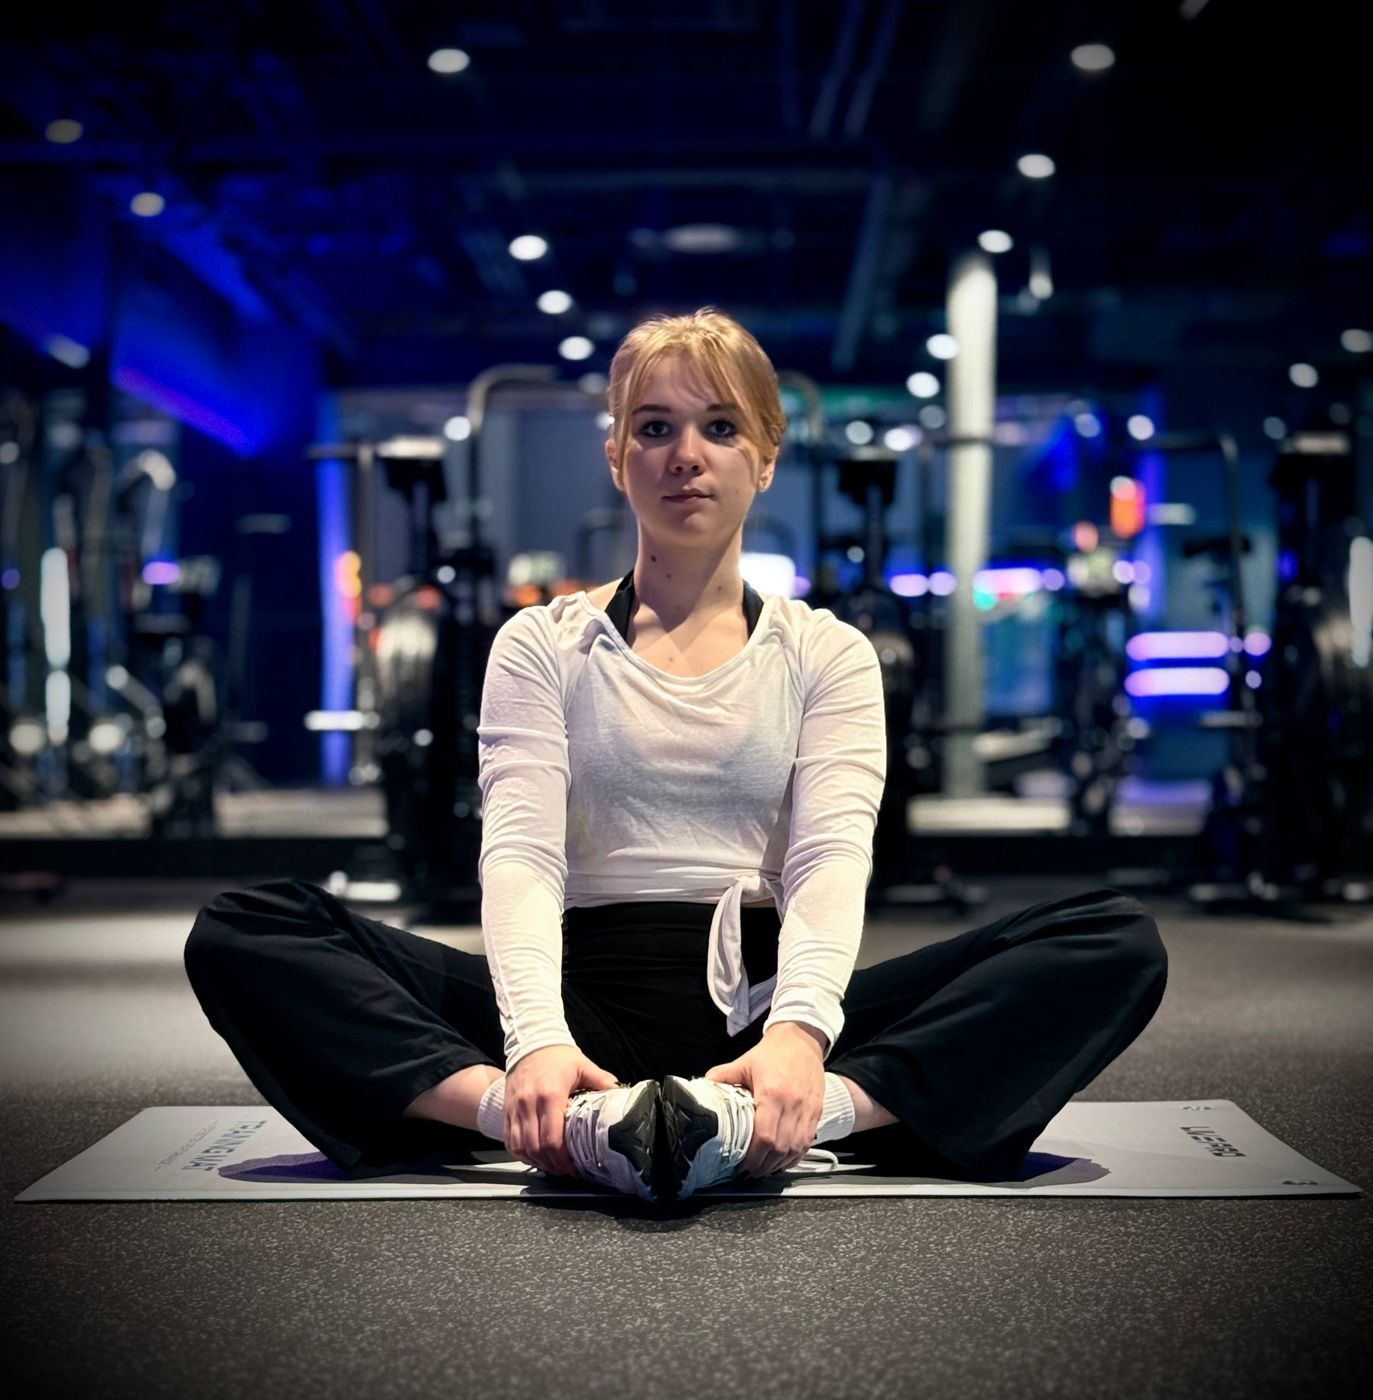
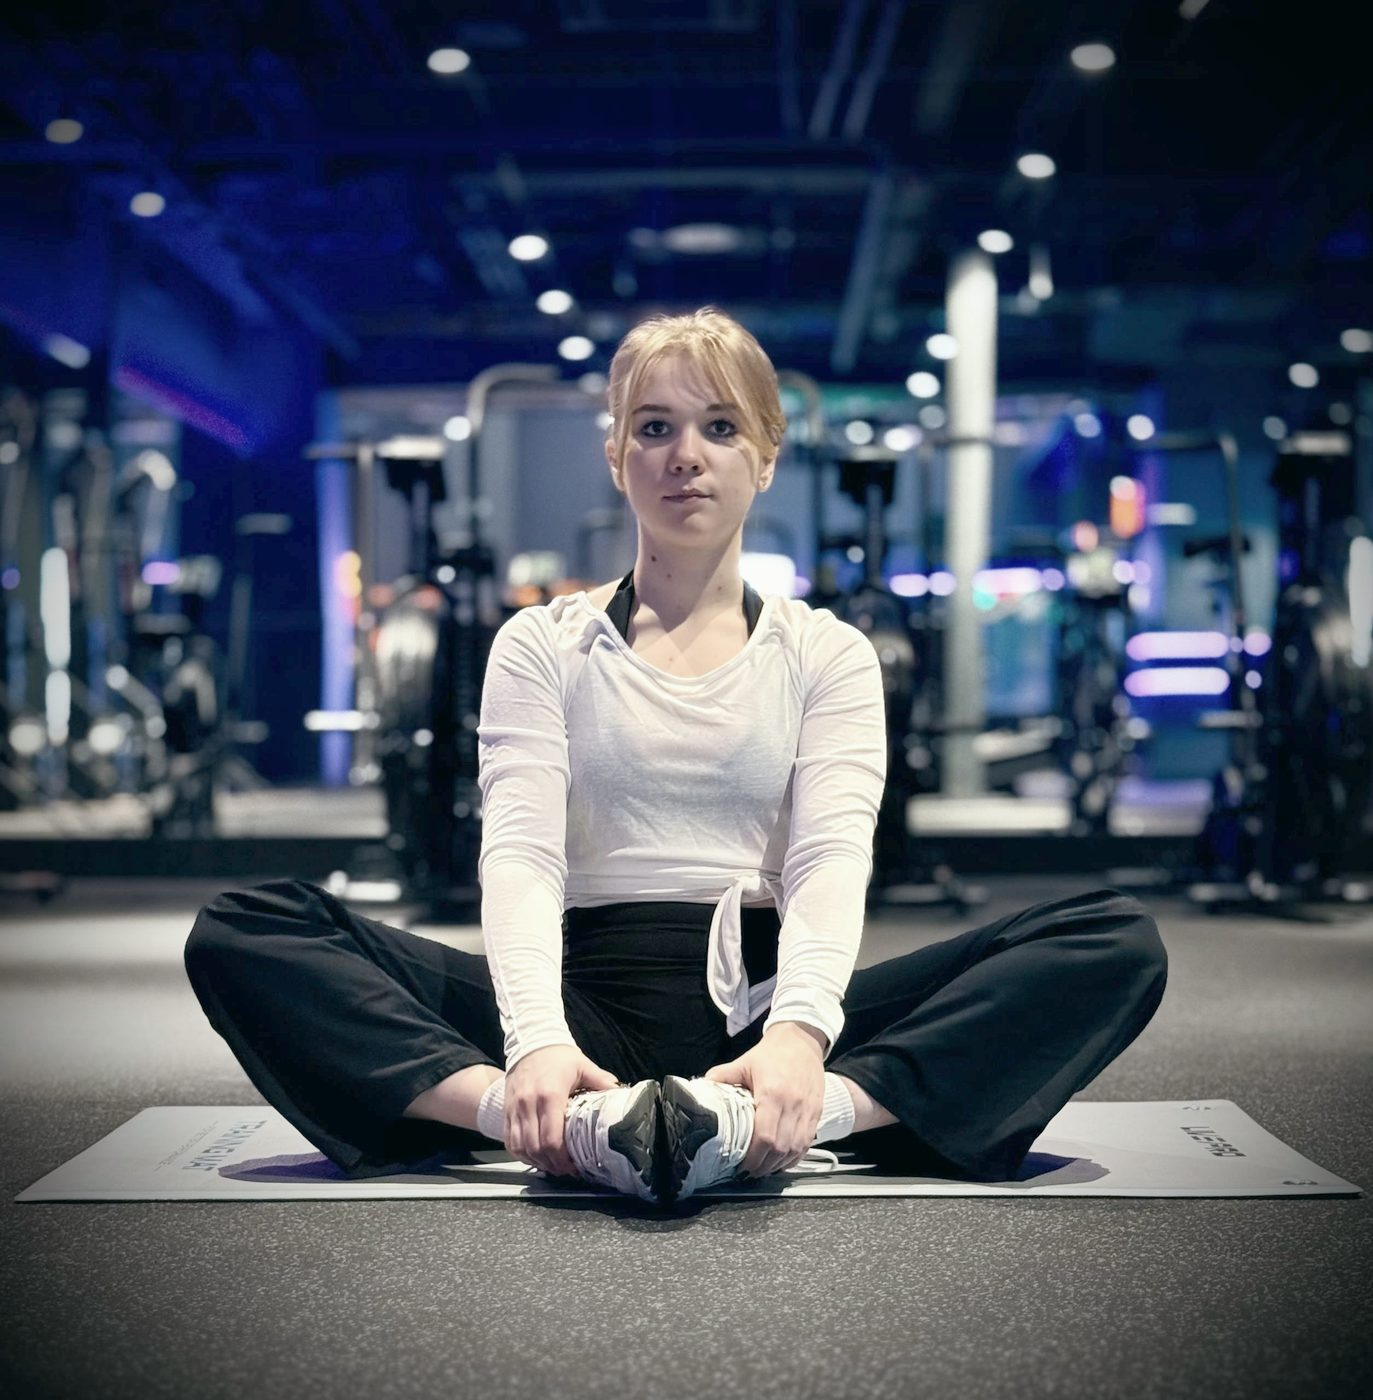
Add files via upload

diff --git a/index.html b/index.html
@@ -77,8 +77,10 @@ p{margin:0 0 12px}
 .health ul{margin:0 0 14px;padding-left:20px;color:var(--tx2)}
 .health ul:last-child{margin-bottom:0}
 .health li{margin:4px 0}
-.gal{display:grid;grid-template-columns:1fr 1fr;gap:8px}
-.gal img{width:100%;aspect-ratio:3/4;object-fit:cover;border-radius:16px;border:1px solid var(--line)}
+.gal{display:flex;gap:10px;overflow-x:auto;scroll-snap-type:x mandatory;-webkit-overflow-scrolling:touch;margin:0 -16px;padding:0 16px 6px;scrollbar-width:none}
+.gal::-webkit-scrollbar{display:none}
+.gal img{flex:0 0 78%;max-width:400px;aspect-ratio:3/4;object-fit:cover;border-radius:16px;border:1px solid var(--line);scroll-snap-align:center}
+.gal-hint{font-size:13px;color:var(--tx3);margin-top:8px;text-align:center}
 
 form{display:grid;gap:4px}
 label.f{display:block;font-size:13px;font-weight:800;color:var(--tx2);margin:14px 2px 6px}
@@ -215,9 +217,13 @@ footer b{color:var(--tx2)}
   <section>
     <div class="eyebrow">Наши вторники</div>
     <div class="gal">
-      <img src="group-1.jpg" alt="Группа растяжки Lite Fit" loading="lazy">
-      <img src="group-2.jpg" alt="Группа растяжки Lite Fit" loading="lazy">
+      <img src="group-3.jpg" alt="Занятие по растяжке Lite Fit" loading="lazy">
+      <img src="group-4.jpg" alt="Занятие по растяжке Lite Fit" loading="lazy">
+      <img src="group-1.jpg" alt="Занятие по растяжке Lite Fit" loading="lazy">
+      <img src="group-2.jpg" alt="Занятие по растяжке Lite Fit" loading="lazy">
+      <img src="group-5.jpg" alt="Занятие по растяжке Lite Fit" loading="lazy">
     </div>
+    <div class="gal-hint">листайте →</div>
   </section>
 
   <section id="zapis">
